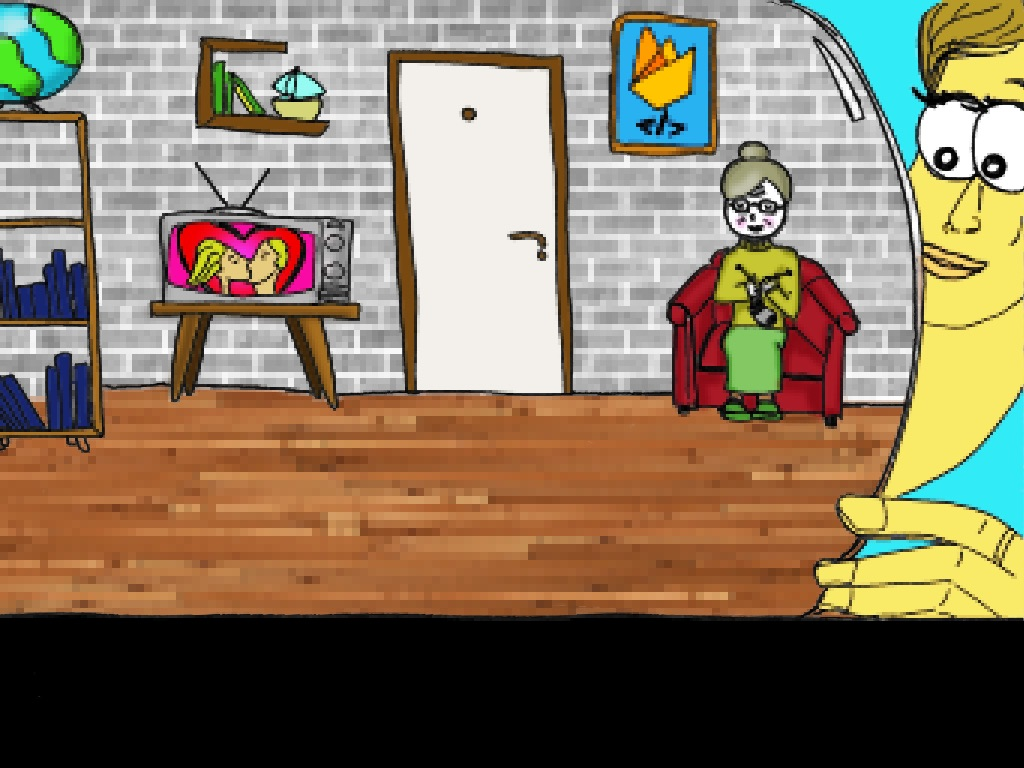
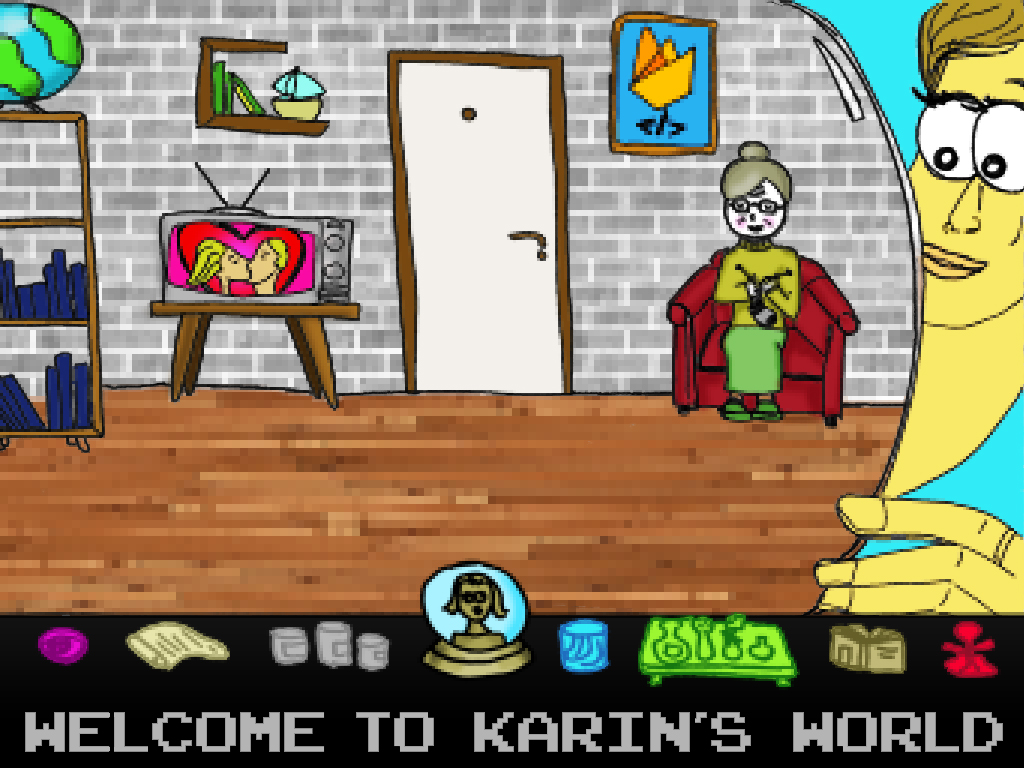
init commit

diff --git a/style.css b/style.css
@@ -1,0 +1,14 @@
+ .cursor_on {   
[1 lines of base64/hex data omitted]
+}
+
+.cursor_off{
+	cursor: auto;
+}
+
+
+.ucarea{
+	cursor: inherit;
+    pointer-events: none;
+}
+

diff --git a/home.html b/home.html
@@ -1,7 +1,27 @@
-<img src="face.jpg" alt="" usemap="#Map" />
+<!DOCTYPE html>
+<html>
+
+<head>
+<link rel="stylesheet" type="text/css" href="style.css">
+<script src="https://ajax.googleapis.com/ajax/libs/jquery/1.12.4/jquery.min.js"></script>
+
+</head>
+<body class="cursor_off">
+
+<img src="map.jpg" alt="" usemap="#Map" />
 <map name="Map" id="Map">
-    <area alt="left eye" title="" href="https://www.youtube.com/watch?v=QyjyWUrHsFc" shape="poly" coords="66,122,117,110,154,134,170,197,164,221,52,223,42,180" />
-    <area alt="right eye" title="" href="https://www.youtube.com/watch?v=5WNTUv9ZWB4" shape="poly" coords="296,109,337,114,372,142,387,192,383,224,251,225,244,169,276,121" />
-    <area alt="mouth" title="" href="https://www.youtube.com/watch?v=RYGpagLSKEk" shape="poly" coords="83,269,372,267,366,346,279,413,184,416,105,348" />
-    [...]
+    <area class="ucarea" alt="" title="" href="https://youtu.be/XbXJpxw7ok0" shape="poly" coords="620,18,617,138,706,143,709,31,666,15" />
+    <area class="ucarea" alt="" title="" href="https://youtu.be/xug3av-t1PY" shape="poly" coords="166,227,305,233,312,285,170,292" />
+    <area class="ucarea" alt="" title="" href="https://youtu.be/mK8Cx18GRPc " shape="poly" coords="298,68,324,91,318,118,283,114,271,95,281,76" />
+    <area class="ucarea" alt="" title="" href="https://youtu.be/ZjRuZqrux7E" shape="poly" coords="0,6,66,21,81,63,61,91,23,97,1,97" />
+    <area class="ucarea" alt="" title="" href="https://youtu.be/JK00mLy7zpc" shape="poly" coords="743,142,742,155,726,174,725,217,736,237,724,266,713,298,732,302,730,324,724,348,730,390,774,390,784,317,793,316,796,258,771,244,782,221,790,183,780,160,761,142" />
+    <area alt="" title="info", id="info", href='javascript:alert("hello")' shape="poly" coords="470,561,515,583,524,627,498,641,468,647,439,636,429,598,438,576" />
 </map>
+
+<audio autoplay>
+  <source src="creaky_door_3.mp3" type="audio/mpeg">
+</audio>
+
+</body>
+
+</html>

diff --git a/controller.js b/controller.js
@@ -1,4 +1,5 @@
 flag_clickable = false;
 $('#allow_click').click(function(event){
 	event.preventDefault();
+	$(".ucarea").removeClass('ucarea').addClass('carea');
 })
